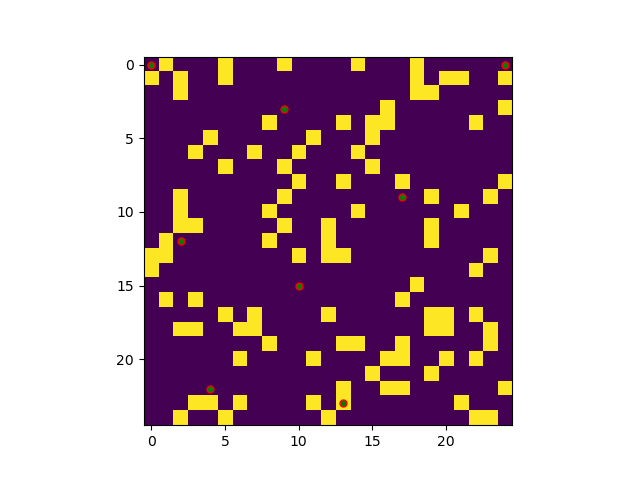
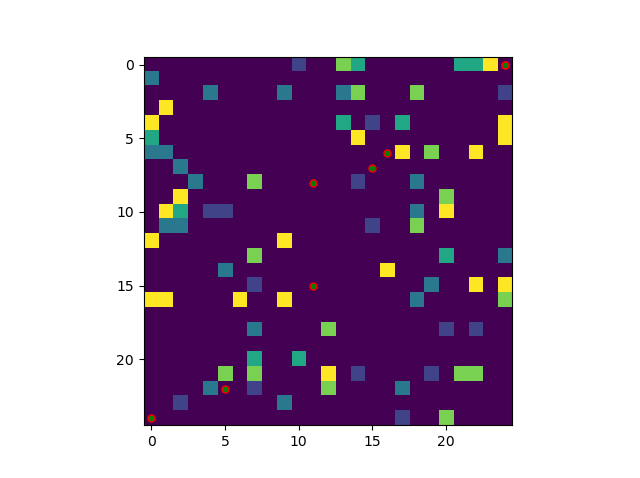
remove dead agents from game. gradient of foody cells depenmnding on food

diff --git a/simpleLife.py b/simpleLife.py
@@ -16,7 +16,7 @@ import matplotlib.animation as animation
 
 from conwayGameOfLife import randomGrid
 from helpers.consts import *
-from helpers.helper import create2dimFieldOfCells
+from helpers.helper import create2dimFieldOfCells, polygon_of_cells_2_colors_2d
 from structures.agent import Agent
 from structures.field import Field
 
@@ -82,6 +82,7 @@ class Simulation:
 
         new_agents = set()
         updated_agents = set()
+        dead_agents = set()
         # each alive agent will act ordered by age
         for agent in self.agents_alive:
             result = agent.act(field)
@@ -95,7 +96,10 @@ class Simulation:
                 elif key == "new_agent" and value is not None:
                     new_agents.add(result['new_agent'])
                 elif key == "die" and value == True:
-                    pass
+                    dead_agents.add(agent)
+                    print("[DEBUG] >>>>>>>>>> DEAD AGENTS ", dead_agents)
+                    print("[DEBUG] >>>>>>>>>> DEAD AGENTS {} . ".format(
+                        list(map(lambda x: x.name, dead_agents))))
 
         if len(new_agents) > 0 or len(updated_agents) > 0:
             print('[STATE-MIDDLE] Before overriding list of agents : {} . '
@@ -105,12 +109,22 @@ class Simulation:
 
             field.agents = len(self.agents_alive)
 
+        if len(dead_agents) > 0:
+            #remove_dead = self.agents_alive - dead_agents
+            self.agents_alive = self.agents_alive - dead_agents
+            print('[STATE-MIDDLE.2] REMOVE DEAD AGENTS : {} . '
+                  'Total quantity = {}'.format(dead_agents, len(dead_agents)))
+            print("[STATE-MIDDLE.2]Currently dead agents {} . ".format(list(map(lambda x: x.name, dead_agents))))
+            field.agents = len(self.agents_alive)
+
         print("[STATE-AFTER]Currently alive agents {} . Total quantity = {}".format(self.agents_alive,
                                                                                     len(self.agents_alive)))
         print("[STATE-AFTER]Currently alive agents {} . ".format(list(map(lambda x: x.name, self.agents_alive))))
 
         # newGrid = grid.copy()
         # newGrid_np = grid_np.copy()
+
+        # -- verify field.  Updated colors . If food in cell ended - turn it off.
         field.check_cells_food_state()
         polygon_arr_cells, polygon_arr_np = field.create_food(2)
 
@@ -133,18 +147,23 @@ class Simulation:
             _1 - agent check for food, eat once or move towards to food or randomly
         """
         field = Field(self.n_dim, self.max_food, self.agents_in_game, self.foody_cells)
-        polygon, polygon_arr = field.polygon, field.polygon_arr
+
+        #polygon, polygon_arr = field.polygon, field.polygon_arr
+        polygon = field.polygon
+        polygon_colors = polygon_of_cells_2_colors_2d(polygon)
+
         agent = Agent(uuid.uuid4(), self.n_dim, MAX_PHISICAL_HEALTH, MAX_MENTAL_HEALTH, SPLIT_COEFFICIENT_PHISICAL,
                       MAX_PHISICAL_HEALTH, MAX_MENTAL_HEALTH)
 
         self.agents_alive.add(agent)
 
-        polygon_arr_np = np.array(polygon_arr)  # move polygon to NP array.
+        polygon_colors_np = np.array(polygon_colors)  # move polygon to NP array.
         fig, ax = plt.subplots()  # draw initial field
-        img = ax.imshow(polygon_arr_np, interpolation='nearest')
+        print("[DEBUG] INITIAL FIELD COLOR STATE ", polygon_colors_np)
+        img = ax.imshow(polygon_colors_np, interpolation='nearest')
 
         ani = animation.FuncAnimation(fig, self.update,
-                                      fargs=(img, polygon_arr_np, polygon_arr, field, ax),
+                                      fargs=(img, polygon_colors_np, polygon_colors, field, ax),
                                       frames=10,
                                       interval=self.upd_interval,
                                       save_count=50)                 # set up animation

diff --git a/structures/field.py b/structures/field.py
@@ -1,7 +1,7 @@
 import random
 import numpy as np
 
-from helpers.consts import MAX_AGENTS_COUNT
+from helpers.consts import MAX_AGENTS_COUNT, FOOD_COLOR_MAP
 from helpers.helper import create2dimFieldOfCells, random2dPoints
 from structures.cell import Cell
 
@@ -13,7 +13,7 @@ class Field:
         self.start_agents_count = agents
         self.part_of_cells_with_food = part_foody_cells
 
-        self.polygon, self.polygon_arr = create2dimFieldOfCells(N_dim)
+        self.polygon = create2dimFieldOfCells(N_dim)
         self.agents = self.start_agents_count
         self.max_agents = MAX_AGENTS_COUNT
 
@@ -22,14 +22,15 @@ class Field:
             UPDATE FOOD IN THE WORLD
             count of food per tick == agents count
             update cells with new food data
-
             return 2d arr of cells , 2d arr of colored cells
         """
         new_cells_w_food = random2dPoints(self.N_dim, quantity)
 
         for i in range(quantity):
             x, y = new_cells_w_food[i]
-            self.polygon[x][y] = Cell(x, y, random.randint(1, self.max_food_in_cell), '', self.max_food_in_cell)
+            food_val = random.randint(1, self.max_food_in_cell)
+
+            self.polygon[x][y] = Cell(x, y, food_val, FOOD_COLOR_MAP[food_val], self.max_food_in_cell)
 
         # transform polygon 2  arrs
         arr_of_cells_2d = self.polygon_2_arr()
@@ -41,19 +42,19 @@ class Field:
                 if cell.food <= 0 and cell.color != 0:
                     print('[DEBUG] : Food in cell ended. color to 0')
                     cell.color = 0
+                if cell.food > 0:
+                    cell.color = FOOD_COLOR_MAP[cell.food]
 
     def polygon_2_arr(self):
         """
-            Function returns 2d arrays of colored cells. If have food - 255, if don't have - 0
+            Function returns 2d arrays of colored cells. Color gradient based on food val
         """
         polygon_arr = []
         for row in self.polygon:
             polygon_arr_row = []
             for cell in row:
-                if cell.food > 0:
-                    polygon_arr_row.append(255)
-                else:
-                    polygon_arr_row.append(0)
+                polygon_arr_row.append(FOOD_COLOR_MAP[cell.food])
+
             polygon_arr.append(polygon_arr_row)
 
         return polygon_arr

diff --git a/helpers/helper.py b/helpers/helper.py
@@ -1,5 +1,5 @@
 import random
-from helpers.consts import PART_OF_CELLS_WITH_FOOD, MAX_FOOD_IN_CELL
+from helpers.consts import PART_OF_CELLS_WITH_FOOD, MAX_FOOD_IN_CELL, FOOD_COLOR_MAP
 import numpy as np
 from structures.cell import Cell
 
@@ -29,25 +29,32 @@ def create2dimFieldOfCells(size):
         return :  2 dim array of CELLS;
     """
     polygon = []
-    polygon_arr = []
     cells_with_food = random2dPoints(size)
 
     for i in range(size):
         polygon_row = []
-        polygon_arr_row = []
         for j in range(size):
             if [i, j] in cells_with_food:
                 food_to_cell = random.randint(1, MAX_FOOD_IN_CELL)
-                cell = Cell(i, j, food_to_cell, 255, MAX_FOOD_IN_CELL)
-                val = 255
+                cell = Cell(i, j, food_to_cell, FOOD_COLOR_MAP[food_to_cell], MAX_FOOD_IN_CELL)
             else:
                 cell = Cell(i, j, 0, 0, MAX_FOOD_IN_CELL)
-                val = 0
 
             polygon_row.append(cell)
-            polygon_arr_row.append(val)
 
         polygon.append(polygon_row)
-        polygon_arr.append(polygon_arr_row)
 
-    return polygon, polygon_arr
+    return polygon
+
+
+def polygon_of_cells_2_colors_2d(field):
+    """
+        2-D Cells array (field) --to->  2-D Colors array
+    """
+    result = []
+    for row in field:
+        result_row = []
+        for cell in row:
+            result_row.append(cell.color)
+        result.append(result_row)
+    return result

diff --git a/structures/cell.py b/structures/cell.py
@@ -9,11 +9,12 @@ class Cell:
         self.max_food = max_food
     
     def decrementFood(self, val=1):
-        '''
+        """
             Decrement food level in Cell by value (default 1)
-            if Afent stays in cell should be happened
-        '''
+            if Agent stays in cell should be happened
+        """
         self.food = self.food - val
+        print("[DEBUG] CELL: x-{} y-{} : Food data updated - Decrement. New value = {}".format(self.x, self.y, self.food))
     
     def incrementFood(self, val=0):
         '''
@@ -25,5 +26,5 @@ class Cell:
                 self.food = self.max_food
             else:
                 self.food = self.food + val
-        print("[DEBUG] CELL: x-{} y-{} : Food data updated. New value = {}".format(self.x, self.y, self.food))
+        print("[DEBUG] CELL: x-{} y-{} : Food data updated - Increment. New value = {}".format(self.x, self.y, self.food))
 

diff --git a/helpers/consts.py b/helpers/consts.py
@@ -1,6 +1,16 @@
 # CELLS
 N = 25                      # default
 MAX_FOOD_IN_CELL = 5       # generates it randomly 1..15
+
+FOOD_COLOR_MAP = {
+    0: 0,
+    1: 51,
+    2: 102,
+    3: 153,
+    4: 204,
+    5: 255
+}
+
 INITIAL_AGENTS_COUNT = 1
 PART_OF_CELLS_WITH_FOOD = 0.1 * N * N   #  only 0.4 of total cells are with food
 
@@ -19,3 +29,4 @@ UPDATE_INTERVAL = 1000
 MAX_AGENTS_COUNT = 8
 
 MAX_DEAD_TICKS = 3          # Agent with 0 mental health will die after 3 ticks
+

diff --git a/structures/agent.py b/structures/agent.py
@@ -123,7 +123,8 @@ class Agent:
         result = {
             "field": None,
             "agent": None,
-            "new_agent": None
+            "new_agent": None,
+            "die" : None
         }
 
         print('[DEBUG] Agent {} in cell X:{} - Y:{} is acting...'.format(self.name, self.x, self.y))
